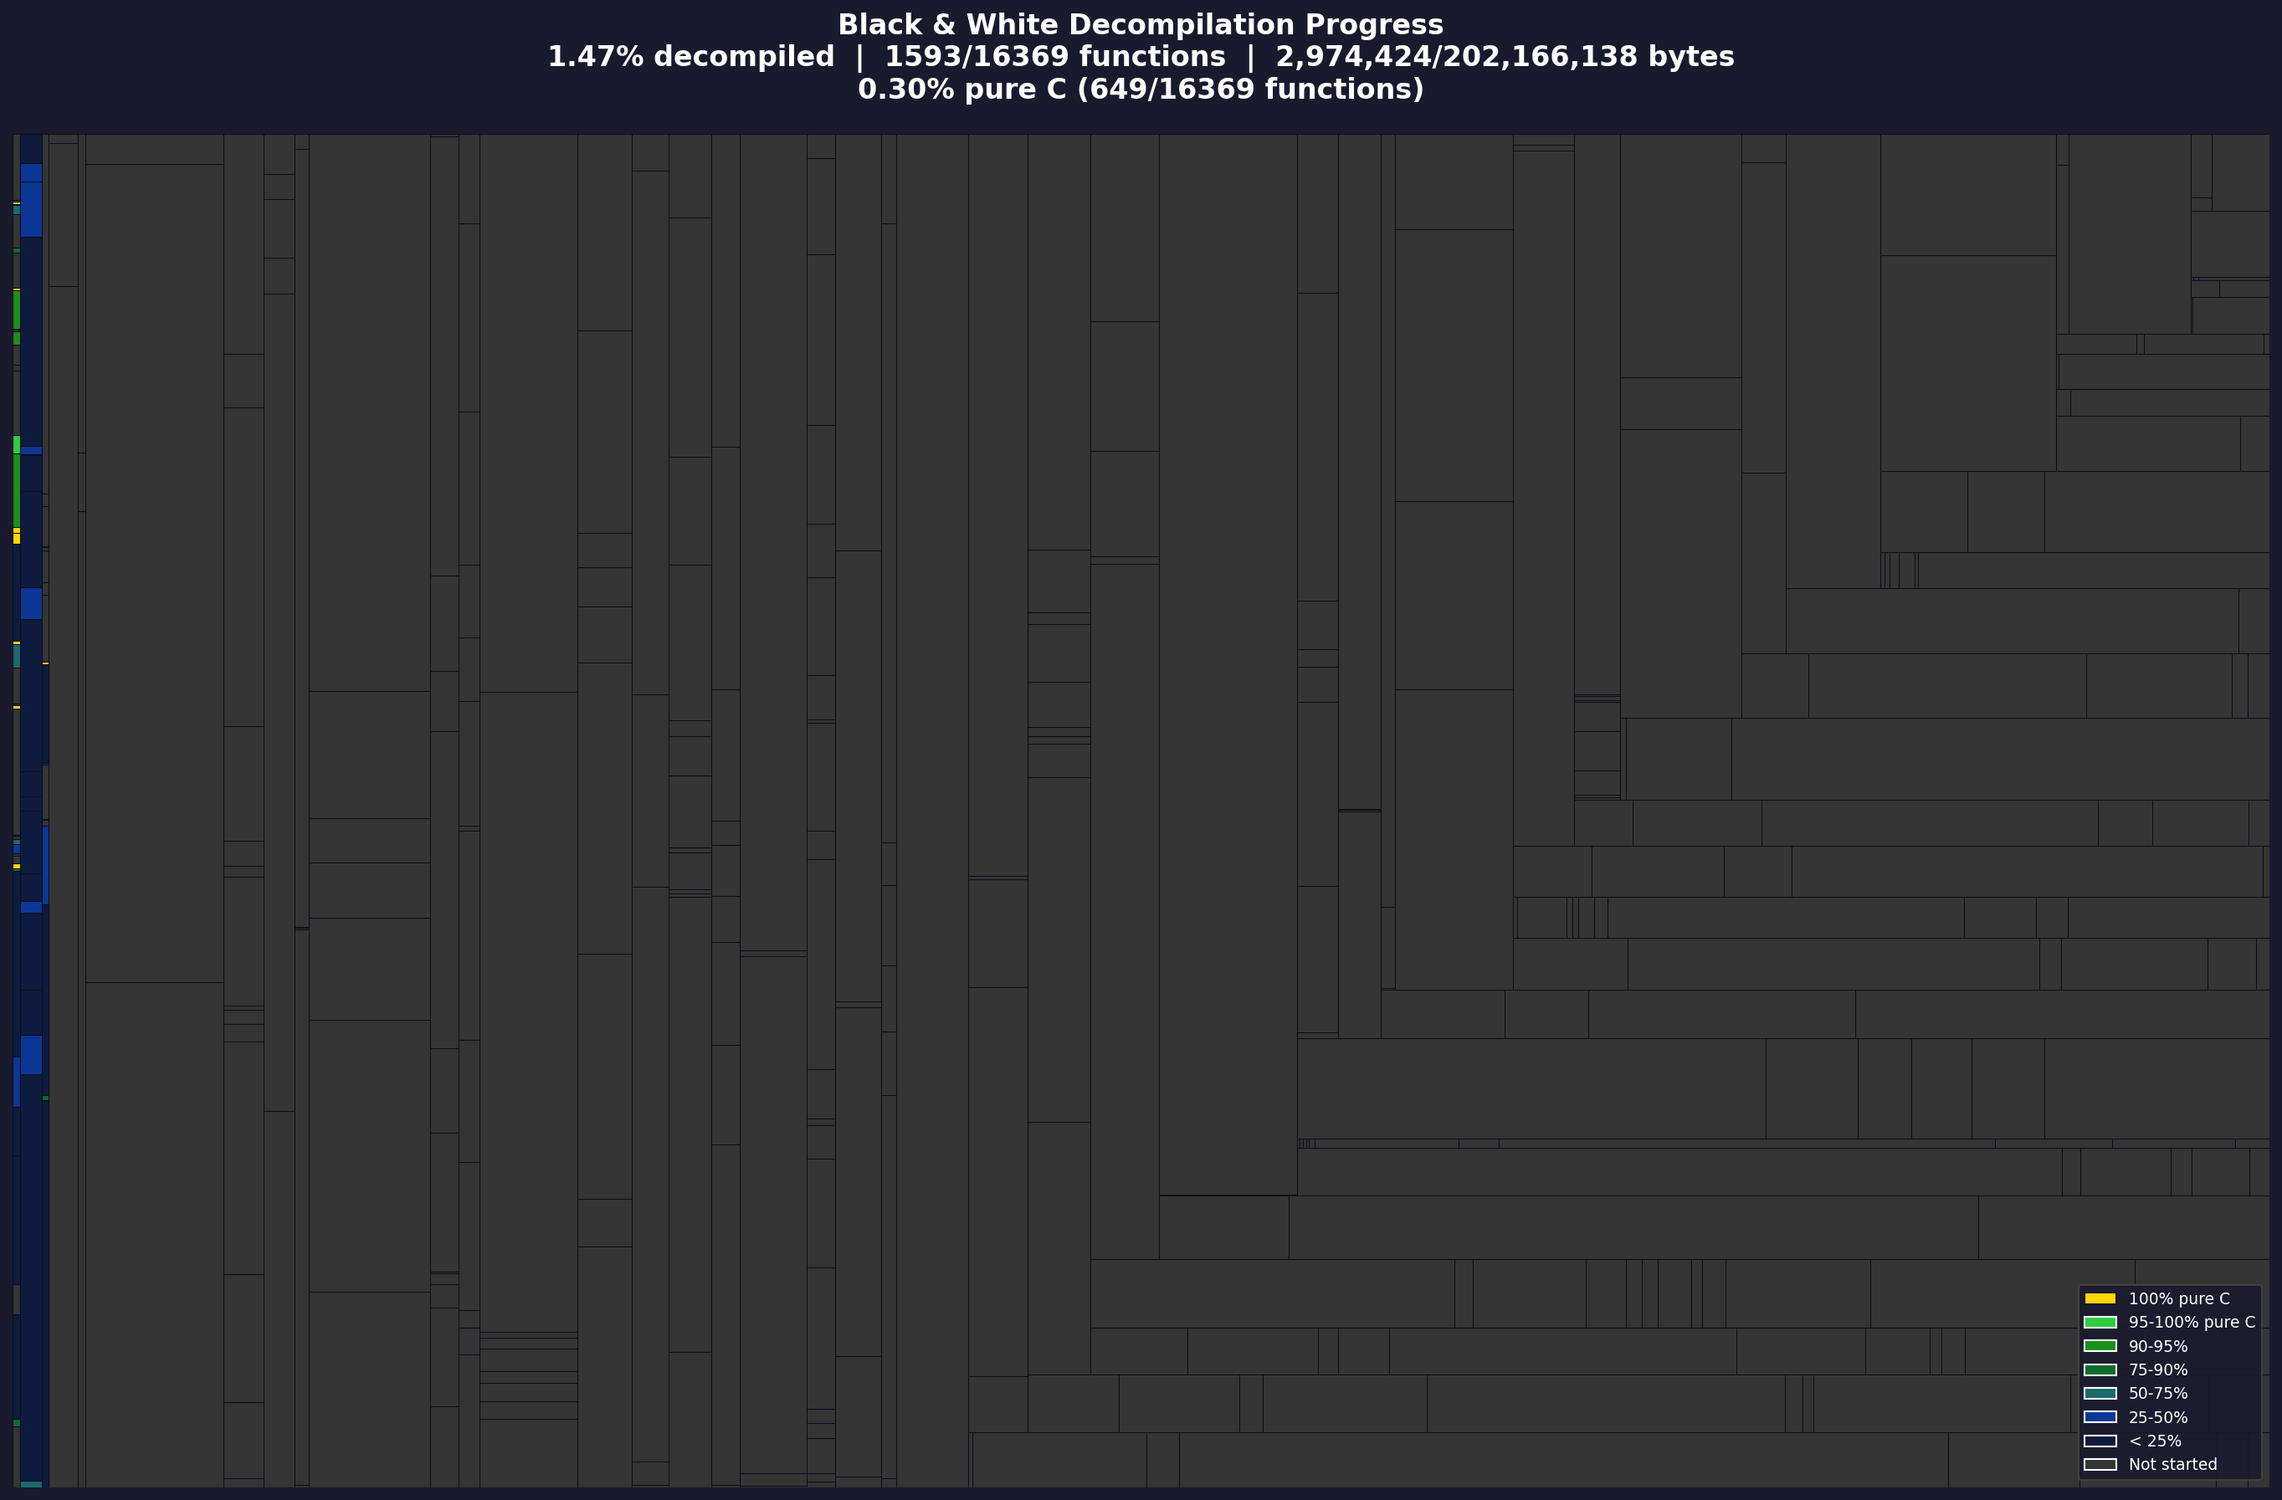
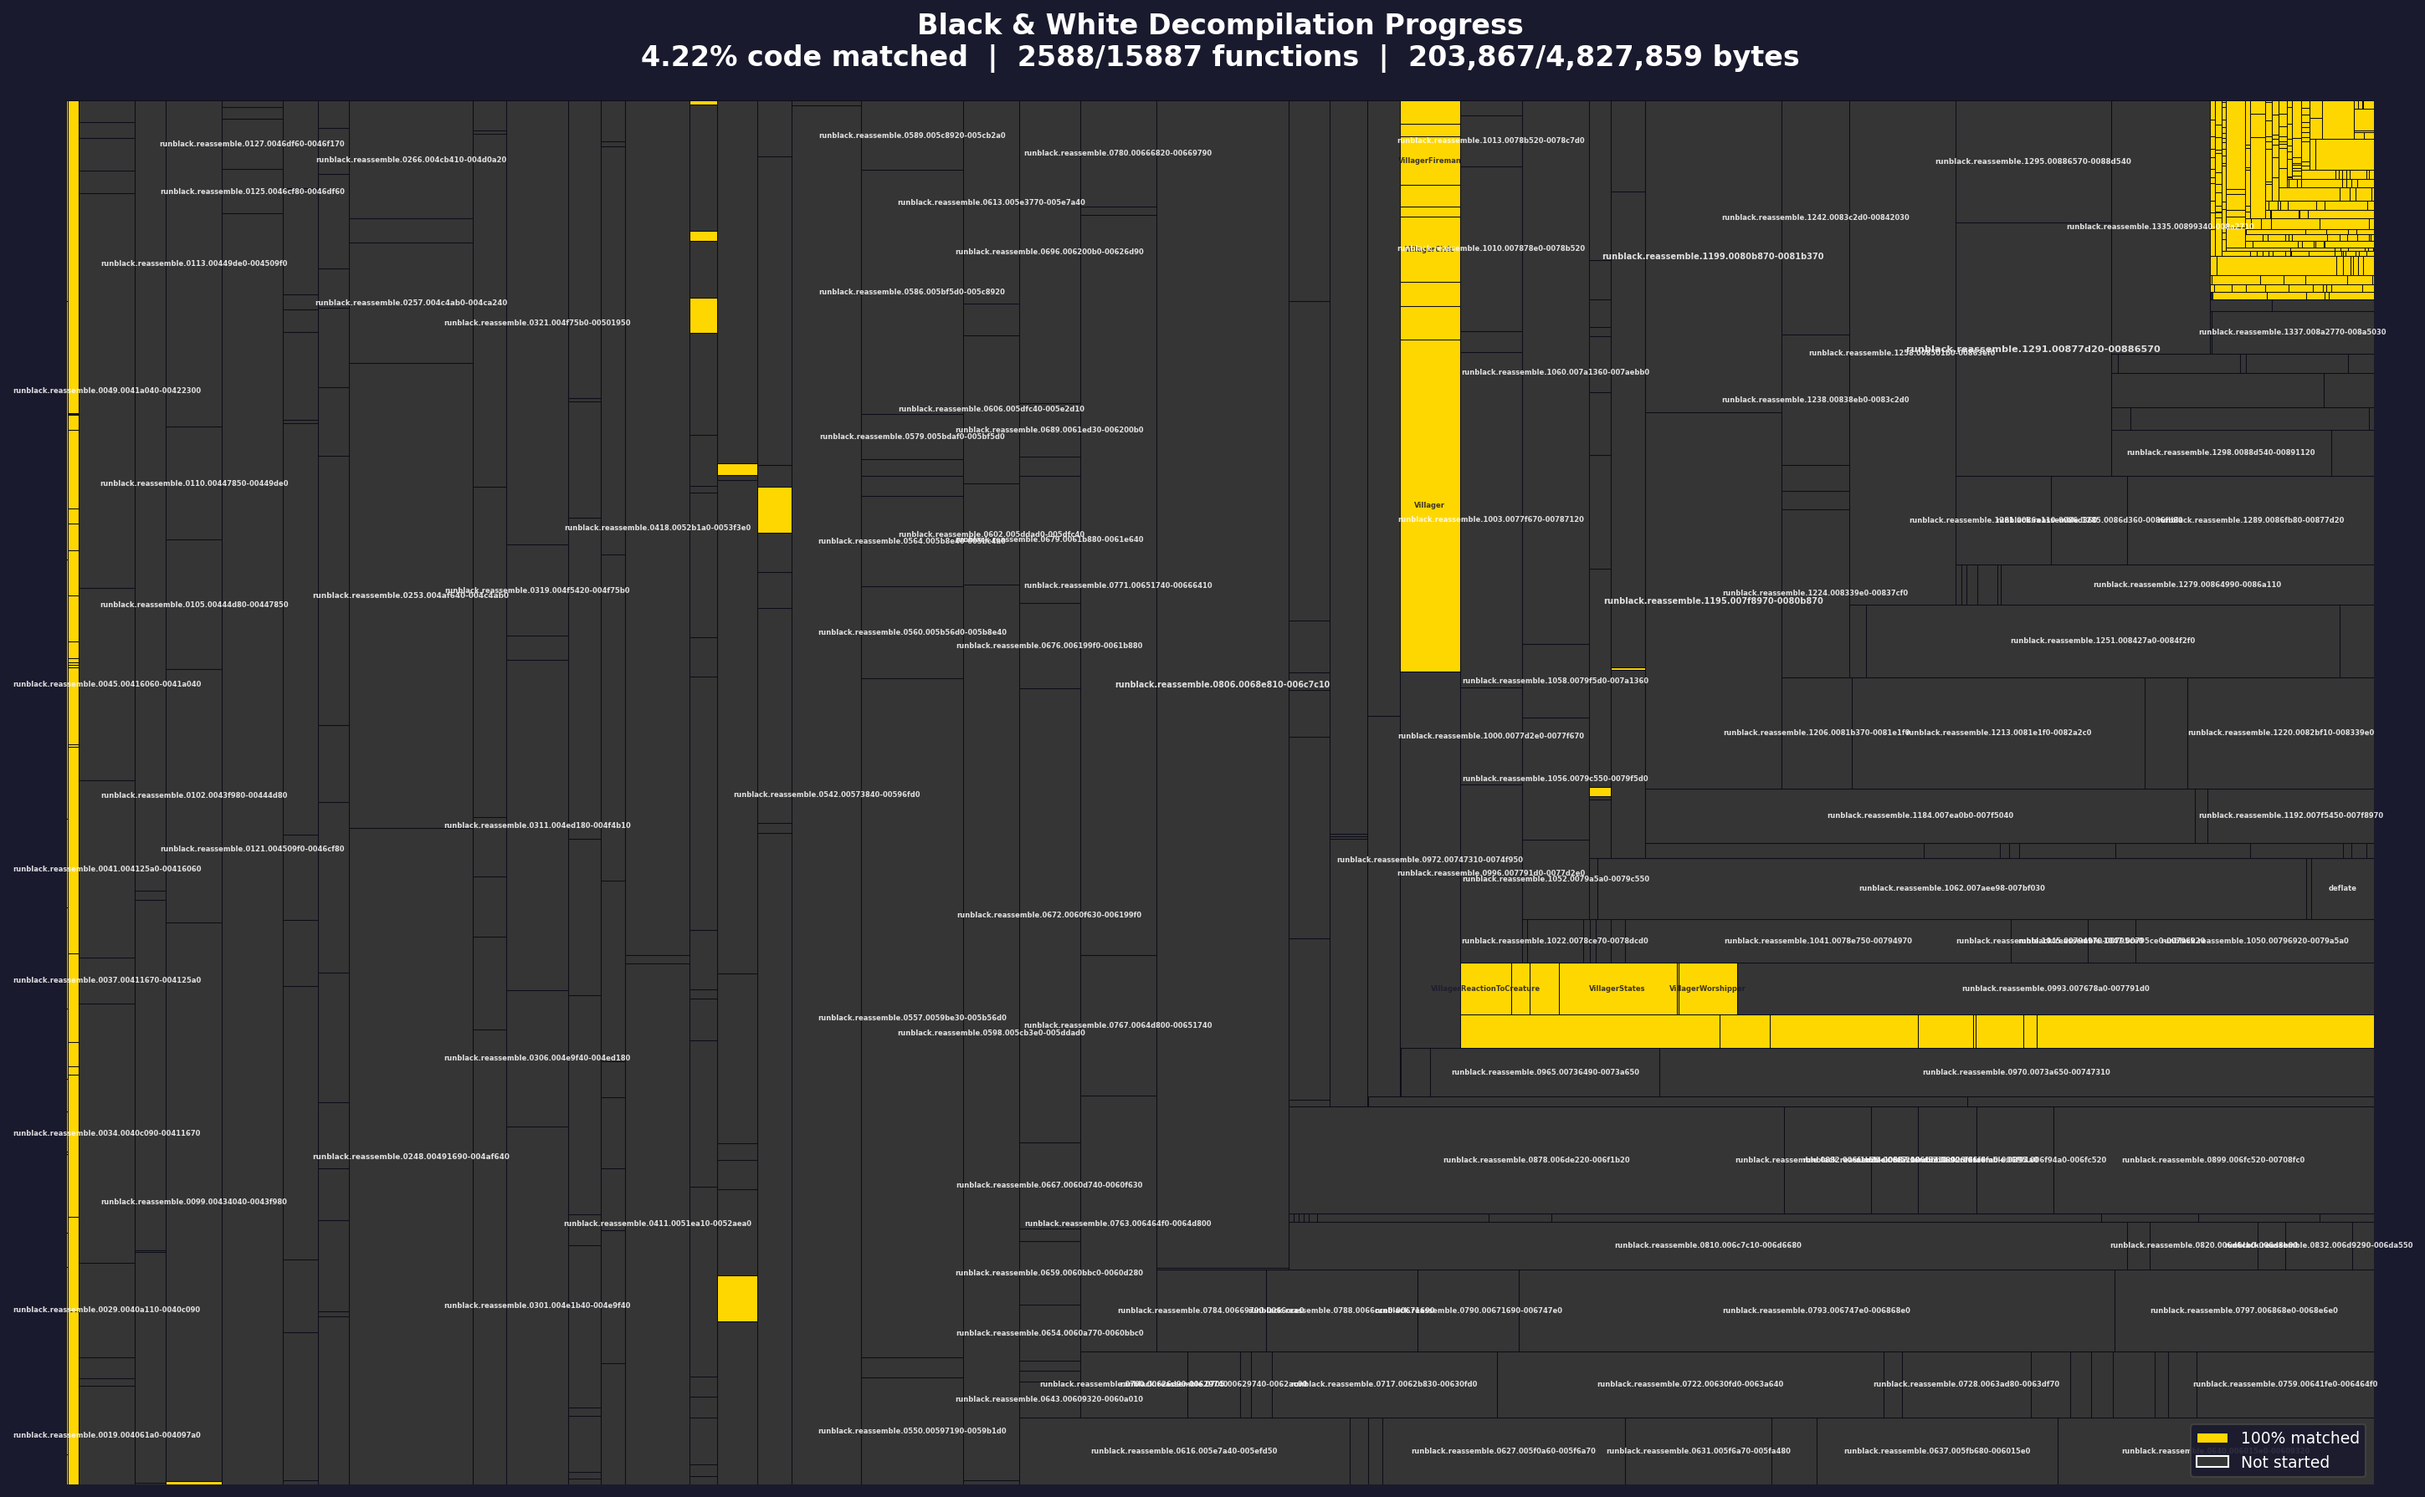
fix: restore progress image to use matched_code_percent metric

diff --git a/scripts/decompilation/generate_progress_image.py b/scripts/decompilation/generate_progress_image.py
@@ -16,14 +16,14 @@ import squarify
 
 COLOR_TIERS = [
     # (min_pct, color,     label)
-    (100,      "#FFD700",  "100% pure C"),      # gold
-    (95,       "#2ecc40",  "95-100% pure C"),   # bright green
-    (90,       "#1a8f1a",  "90-95%"),           # medium green
-    (75,       "#0e6b2c",  "75-90%"),           # dark green
-    (50,       "#1a6b6b",  "50-75%"),           # teal
-    (25,       "#0c3795",  "25-50%"),           # dark blue
-    (0.01,     "#0d1b3e",  "< 25%"),            # deep navy
-    (0,        "#353535",  "Not started"),       # gray
+    (100,      "#FFD700",  "100% matched"),   # gold
+    (95,       "#2ecc40",  "95-100%"),         # bright green
+    (90,       "#1a8f1a",  "90-95%"),          # medium green
+    (75,       "#0e6b2c",  "75-90%"),          # dark green
+    (50,       "#1a6b6b",  "50-75%"),          # teal
+    (25,       "#0c3795",  "25-50%"),          # dark blue
+    (0.01,     "#0d1b3e",  "1-25%"),           # deep navy
+    (0,        "#353535",  "Not started"),     # gray
 ]
 
 
@@ -32,13 +32,10 @@ def get_color(unit):
     meta = unit.get("metadata", {})
     measures = unit.get("measures", {})
 
-    if meta.get("auto_generated"):
-        return "#FFD700"  # gold - library code
+    if meta.get("complete") or meta.get("auto_generated"):
+        return "#FFD700"  # gold - complete
 
-    # Use pure C percentage for finer-grained coloring when available
-    pct = measures.get("pure_c_percent", None)
-    if pct is None:
-        pct = measures.get("matched_code_percent", 0)
+    pct = measures.get("matched_code_percent", 0)
     if pct is None:
         pct = 0
 
@@ -95,6 +92,20 @@ def main():
             edgecolor="#0d0d1a",
             linewidth=0.5,
         ))
+        # Only label large enough rectangles
+        if dx > 2 and dy > 1.5:
+            fontsize = min(8, max(4, min(dx, dy) * 0.8))
+            # Use dark text on gold, white on everything else
+            text_color = "#1a1a2e" if color == "#FFD700" else "white"
+            ax.text(
+                x + dx / 2, y + dy / 2,
+                label,
+                ha="center", va="center",
+                color=text_color,
+                fontsize=fontsize,
+                fontweight="bold",
+                alpha=0.85,
+            )
 
     ax.set_xlim(0, 100)
     ax.set_ylim(0, 60)
@@ -107,17 +118,13 @@ def main():
     total_funcs = measures.get("total_functions", 0)
     total_code = int(measures.get("total_code", 0))
     matched_code = int(measures.get("matched_code", 0))
-    pure_c_pct = measures.get("pure_c_percent", None)
-    pure_c_funcs = measures.get("pure_c_functions", None)
 
-    title = f"Black & White Decompilation Progress\n"
-    title += (
-        f"{matched_code_pct:.2f}% decompiled  |  "
+    title = (
+        f"Black & White Decompilation Progress\n"
+        f"{matched_code_pct:.2f}% code matched  |  "
         f"{matched_funcs}/{total_funcs} functions  |  "
         f"{matched_code:,}/{total_code:,} bytes"
     )
-    if pure_c_pct is not None and pure_c_funcs is not None:
-        title += f"\n{pure_c_pct:.2f}% pure C ({pure_c_funcs}/{total_funcs} functions)"
     ax.set_title(title, color="white", fontsize=16, fontweight="bold", pad=20)
 
     # Legend — only include tiers that appear in the data
@@ -141,9 +148,8 @@ def main():
     plt.tight_layout()
     plt.savefig(output_path, dpi=150, bbox_inches="tight", facecolor=fig.get_facecolor())
     plt.close()
-    print(f"  Decompiled: {matched_code_pct:.2f}% ({matched_code:,} / {total_code:,} bytes, {matched_funcs}/{total_funcs} functions)")
-    if pure_c_pct is not None and pure_c_funcs is not None:
-        print(f"  Pure C:     {pure_c_pct:.2f}% ({pure_c_funcs}/{total_funcs} functions)")
+    print(f"  Code: {matched_code_pct:.2f}% matched ({matched_code:,} / {total_code:,} bytes)")
+    print(f"  Functions: {matched_funcs} / {total_funcs} ({matched_funcs/total_funcs*100:.2f}%)")
 
 
 if __name__ == "__main__":
